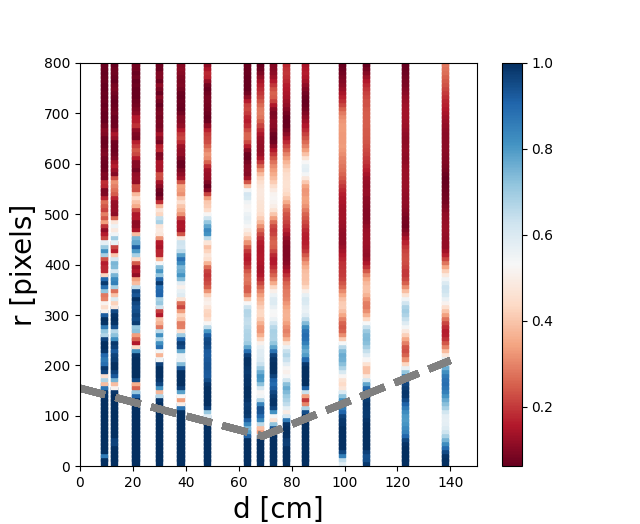
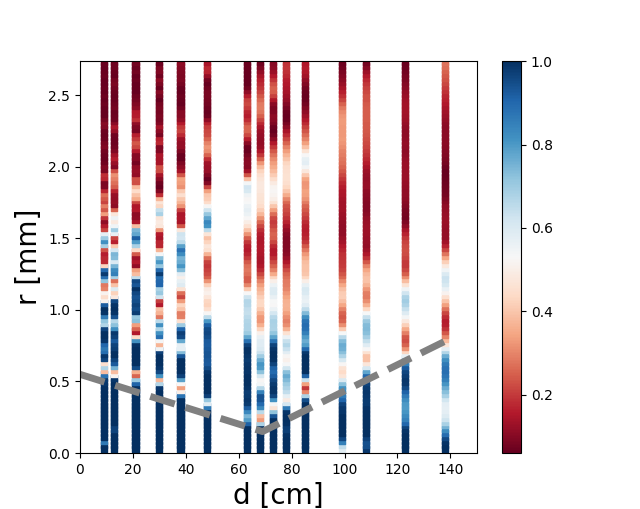
lab over

diff --git a/interference/advanced/image_analysis.py b/interference/advanced/image_analysis.py
@@ -95,17 +95,17 @@ def analyse_1() -> array:
 def plot_1() -> None:
     intensities, radii, d1 = analyse_1()
     np.save('intensities1_res100_max_800.npy', intensities)
+    radii = radii/1440*4.968
     for i in range(len(intensities)):
         intensity = intensities[i]
         plt.scatter([d1[i] for _ in radii], radii, c=intensity/np.max(intensity), marker='s', s=20, cmap='RdBu')
-        plt.plot([0, 69, 140], [155, 60, 210], linestyle='--', color='gray', linewidth=5)
-    plt.xlabel('d [cm]', fontsize=20)
-    plt.ylabel('r [pixels]', fontsize=20)
-    plt.ylim(0, 800)
-    plt.xlim(0, 150)
+    plt.plot([0, 69, 140], [0.55, 0.15, 0.8], linestyle='--', color='gray', linewidth=5)
     plt.colorbar()
+    plt.xlabel('d [cm]', fontsize=20)
+    plt.ylabel('r [mm]', fontsize=20)
+    plt.ylim(0, 2.74)
+    plt.xlim(0, 150)
     plt.show()
-
 
 
 if __name__ == "__main__":
